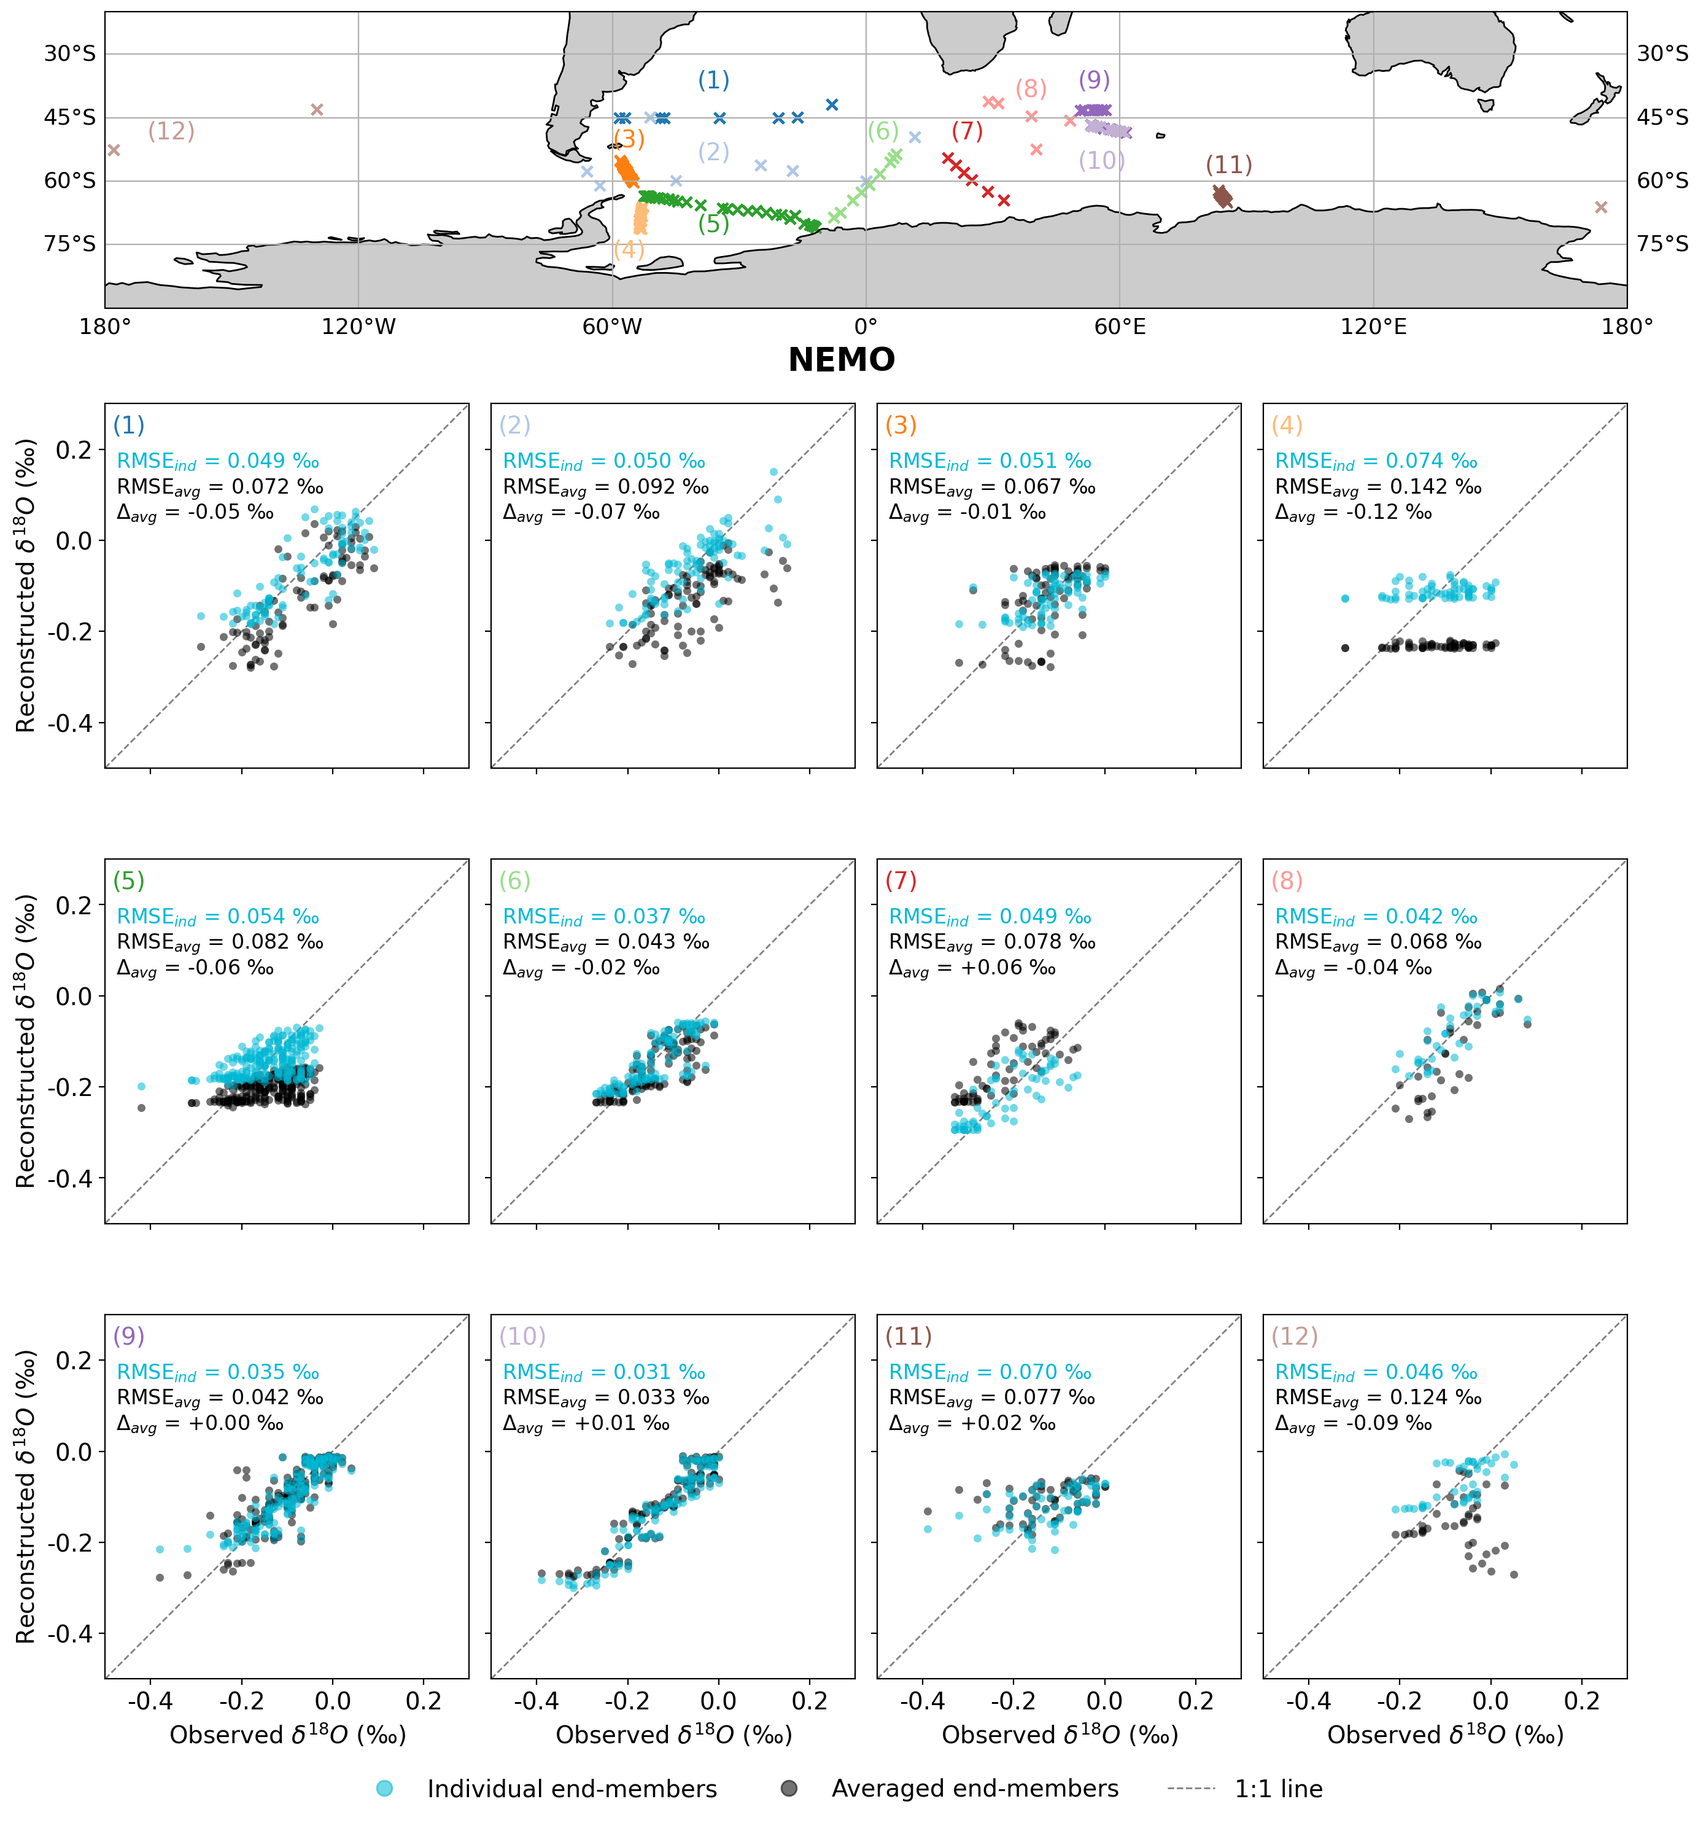
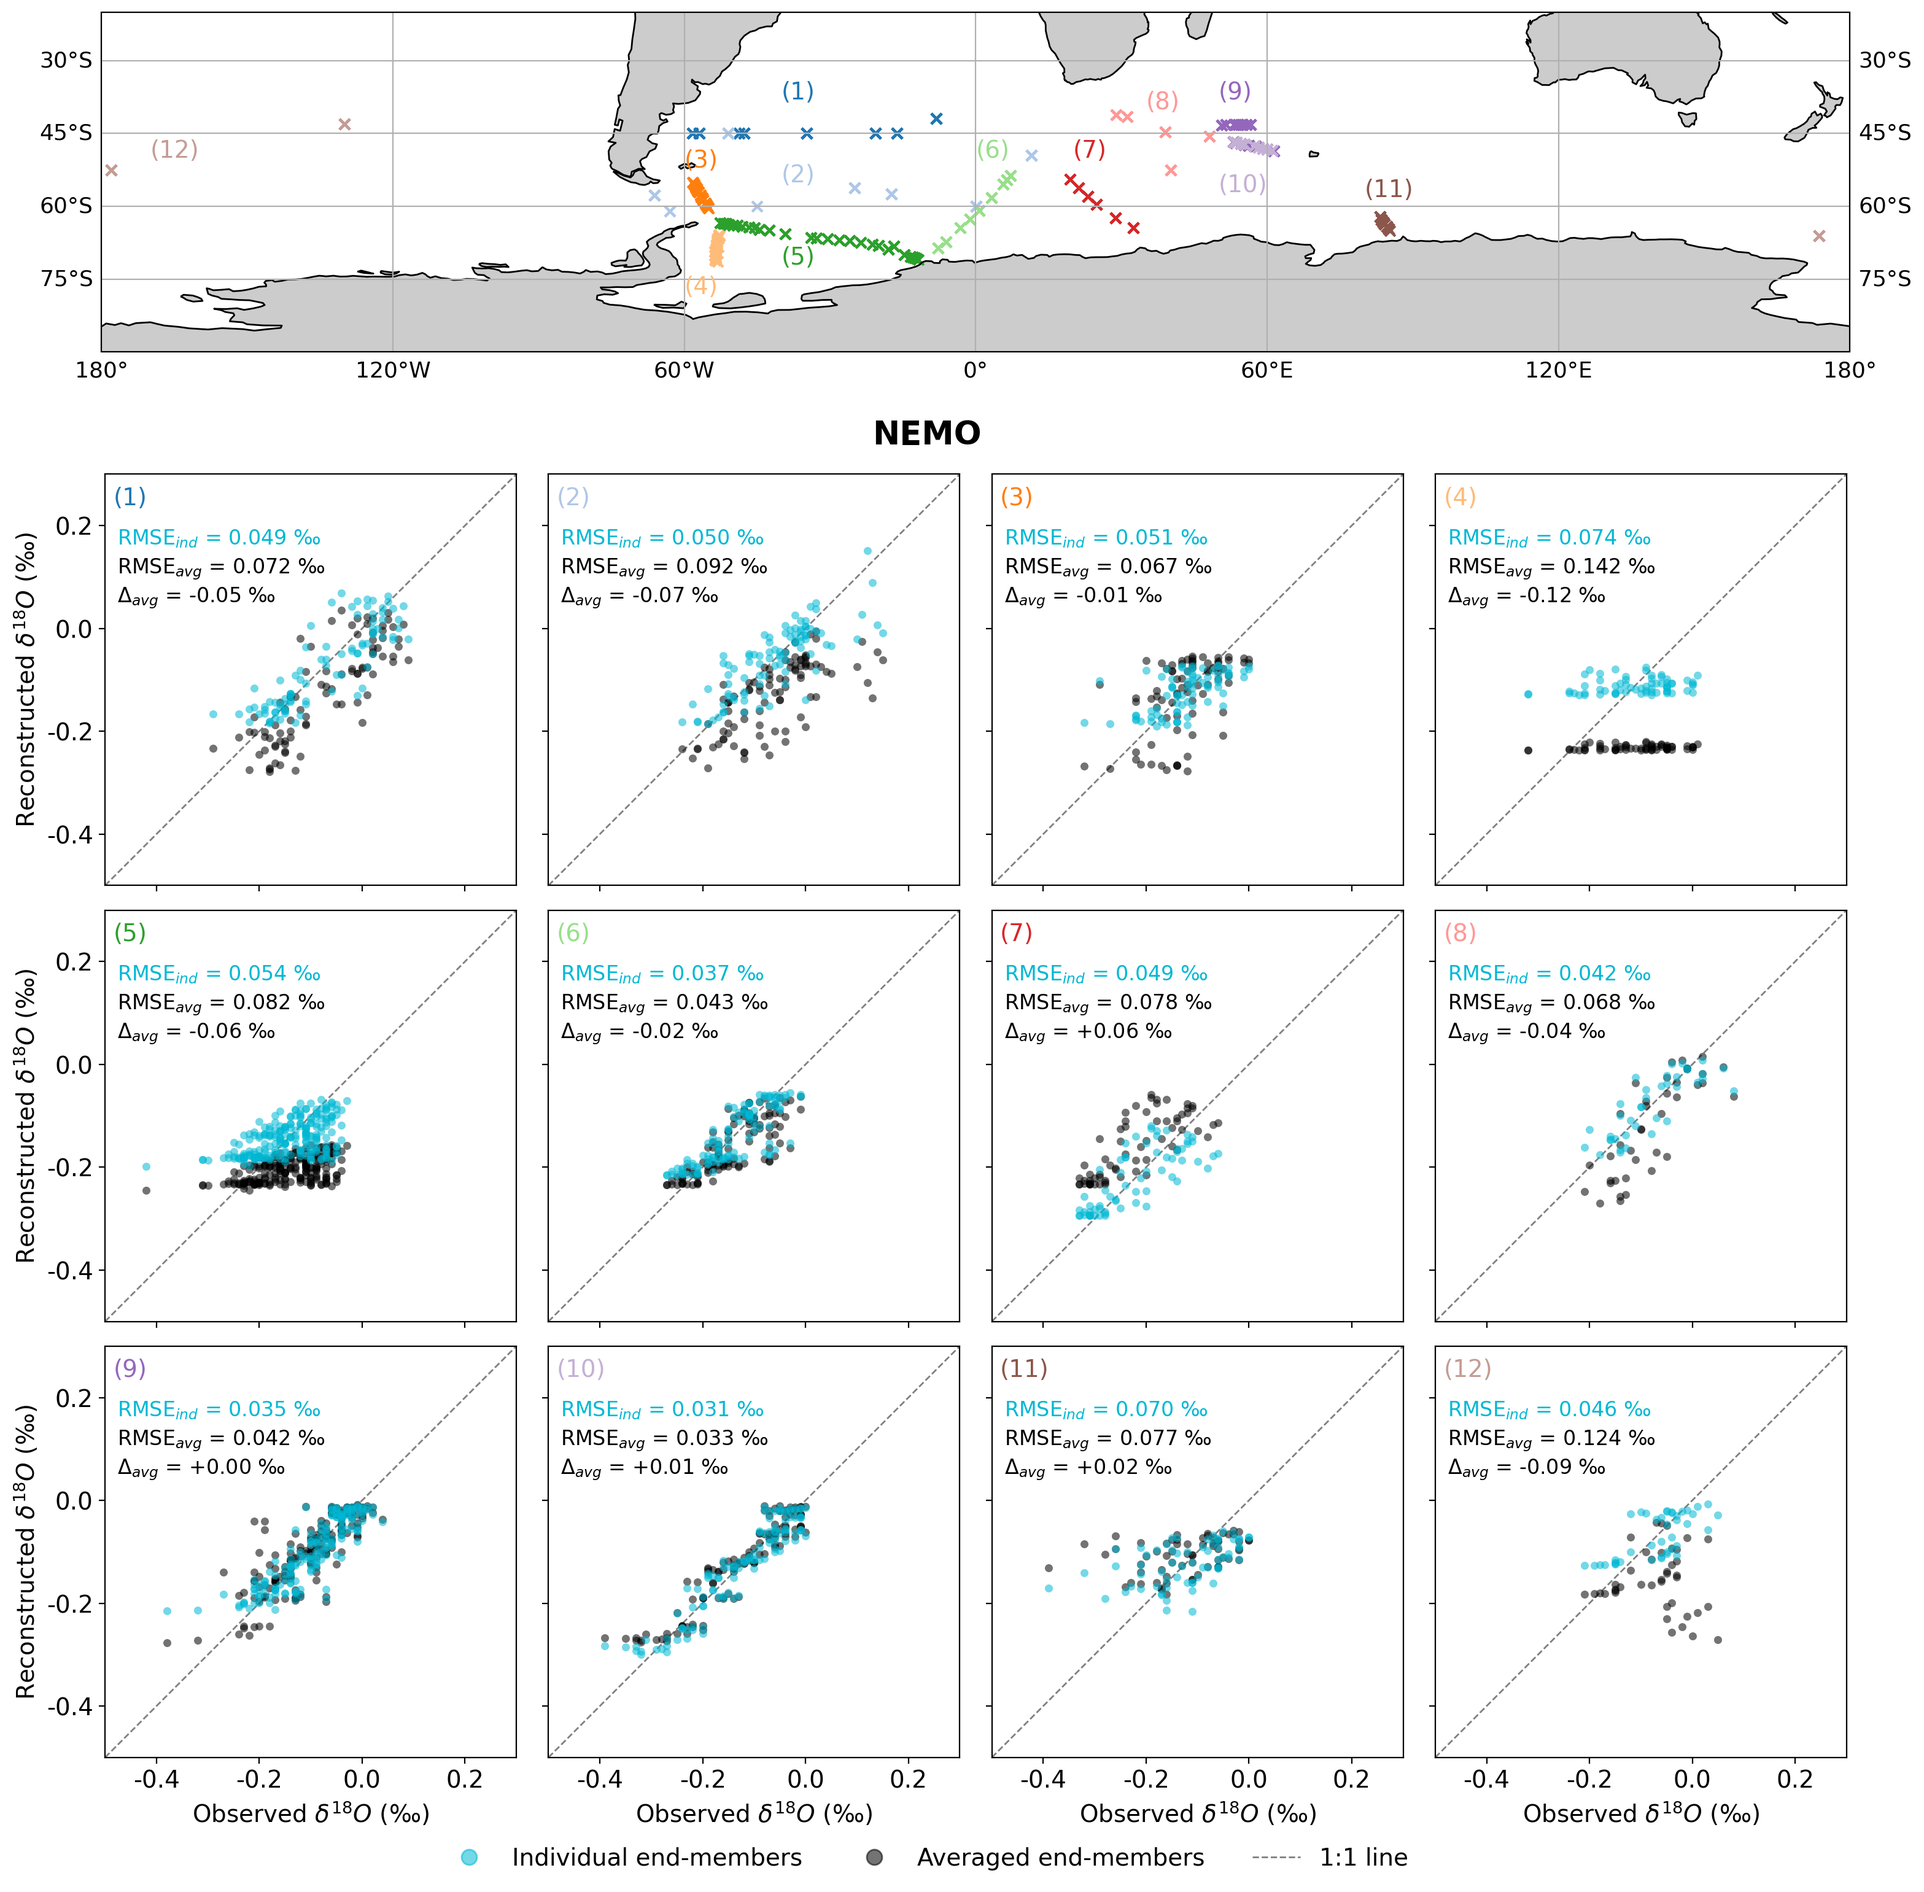
Crossplots: remove blank space between panels
The panels have equal axes, so the figure is now sized for square grid cells
and only the gap under the map is widened (for the longitude labels and model
name). Drops the tick at the upper edge of the axis range so labels of
neighbouring panels do not collide.

diff --git a/analysis/review/fig6_profiles_reconstructions.py b/analysis/review/fig6_profiles_reconstructions.py
@@ -198,11 +198,17 @@ def plot_crossplot(datasets, model, out):
     reconstructions (individual end-members in cyan, averaged in magenta) and the
     1:1 line. Same map, colours and dots as the profile figure.
     """
-    fig = plt.figure(figsize=(16, 18))
-    gs = fig.add_gridspec(4, 4, wspace=0.06, hspace=0.16, height_ratios=[0.85, 1, 1, 1])
+    # The panels are square (equal axes), so the figure is sized for square grid
+    # cells: 4 panels of width w across 0.89 x 16 in with 0.06 w gaps gives
+    # w ~ 3.4 in and 3 rows ~ 10.4 in; the map (360 x 70 deg) is ~ 2.8 in tall.
+    # Only the map-to-panels gap is widened, for the longitude labels and model name.
+    fig = plt.figure(figsize=(16, 15.8))
+    outer = fig.add_gridspec(2, 1, height_ratios=[2.77, 10.43], hspace=0.15,
+                             left=0.08, right=0.97, top=0.98, bottom=0.08)
+    gs = outer[1].subgridspec(3, 4, wspace=0.06, hspace=0.06)
     couleurs = plt.cm.tab20(range(12))
 
-    ax = fig.add_subplot(gs[0, :], projection=ccrs.PlateCarree())
+    ax = fig.add_subplot(outer[0], projection=ccrs.PlateCarree())
     ax.coastlines(resolution='110m')
     ax.add_feature(cfeature.LAND, facecolor='0.8', edgecolor='none', zorder=0)
     gl = ax.gridlines(draw_labels={'bottom': 'x', 'right': 'y', 'left': 'y'},
@@ -221,11 +227,13 @@ def plot_crossplot(datasets, model, out):
     cols = ['d18O', 'd18O_rcst_' + model, 'd18O_rcst_mean_' + model]
     allv = np.concatenate([np.asarray(d[c], float) for d in datasets for c in cols])
     lims = (np.floor(np.nanmin(allv) * 10 - 0.5) / 10, np.ceil(np.nanmax(allv) * 10 + 0.5) / 10)
-    ticks = np.round(np.arange(np.ceil(lims[0] * 5) / 5, lims[1] + 1e-9, 0.2), 1)
+    # no tick on the upper edge: with the panels touching, its label would run
+    # into the first label of the next panel
+    ticks = np.round(np.arange(np.ceil(lims[0] * 5) / 5, lims[1] - 1e-9, 0.2), 1)
 
     for i in range(12):
         df = datasets[i]
-        i_row, i_col = i // 4 + 1, i % 4
+        i_row, i_col = i // 4, i % 4
         xlabels, ylabels = uf.get_xylabels(3, 4, i)
         ax = fig.add_subplot(gs[i_row, i_col])
         obs = df['d18O']
